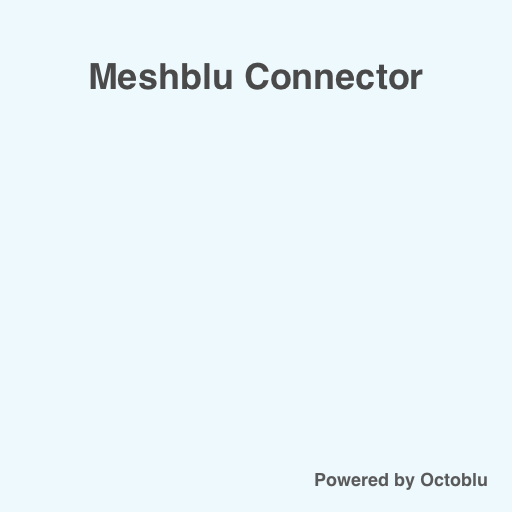
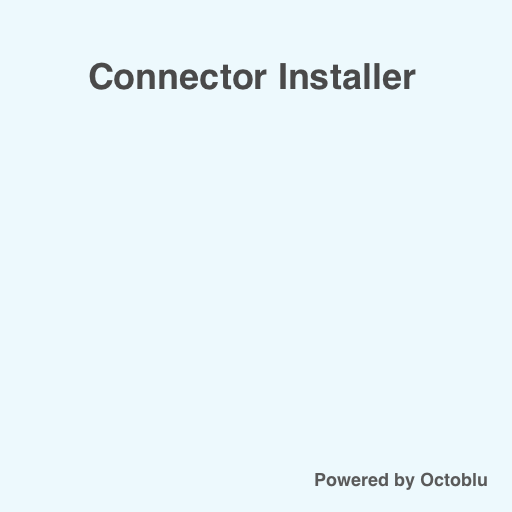
v8.3.0 renamed to connector installer in UI

Changed region(s): [[0.1562, 0.125, 0.8438, 0.1875]]

diff --git a/src/components/home/index.js b/src/components/home/index.js
@@ -76,7 +76,7 @@ export default class Home extends Component {
     return (
       <div>
         <div className="Home">
-          <h2>Meshblu Connector Installer</h2>
+          <h2>Connector Installer</h2>
           {content}
         </div>
       </div>
